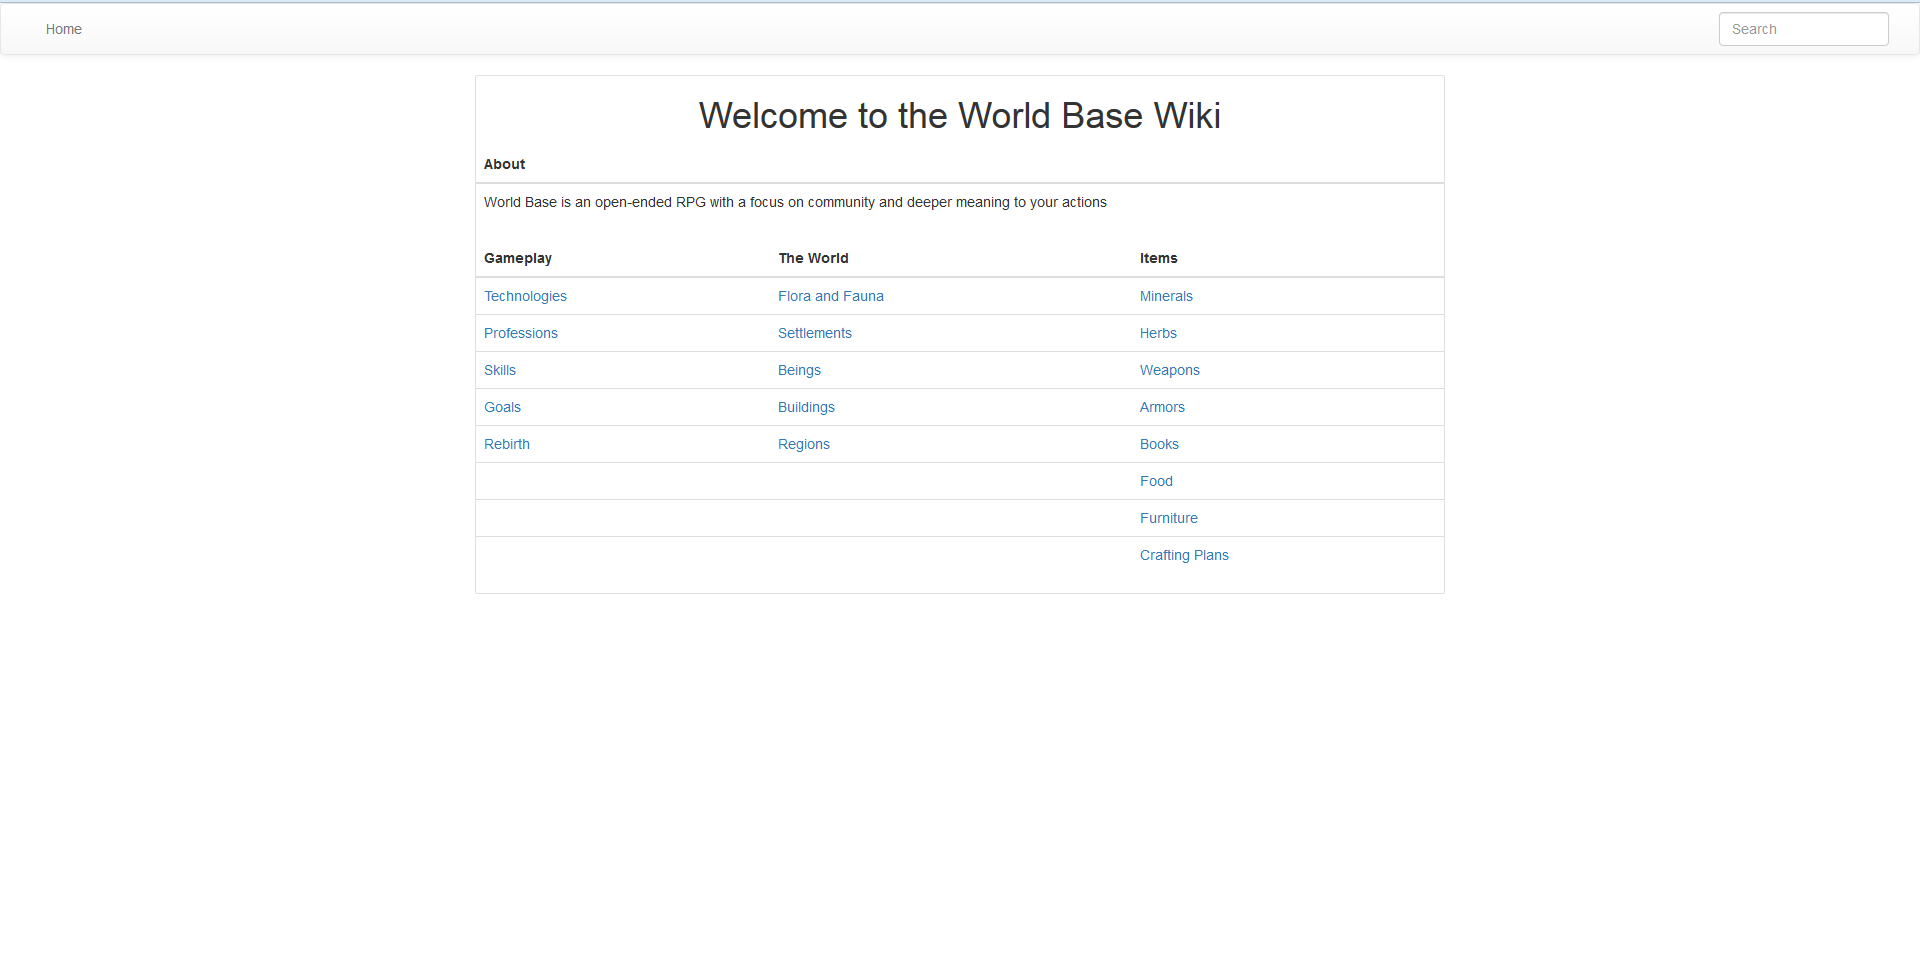
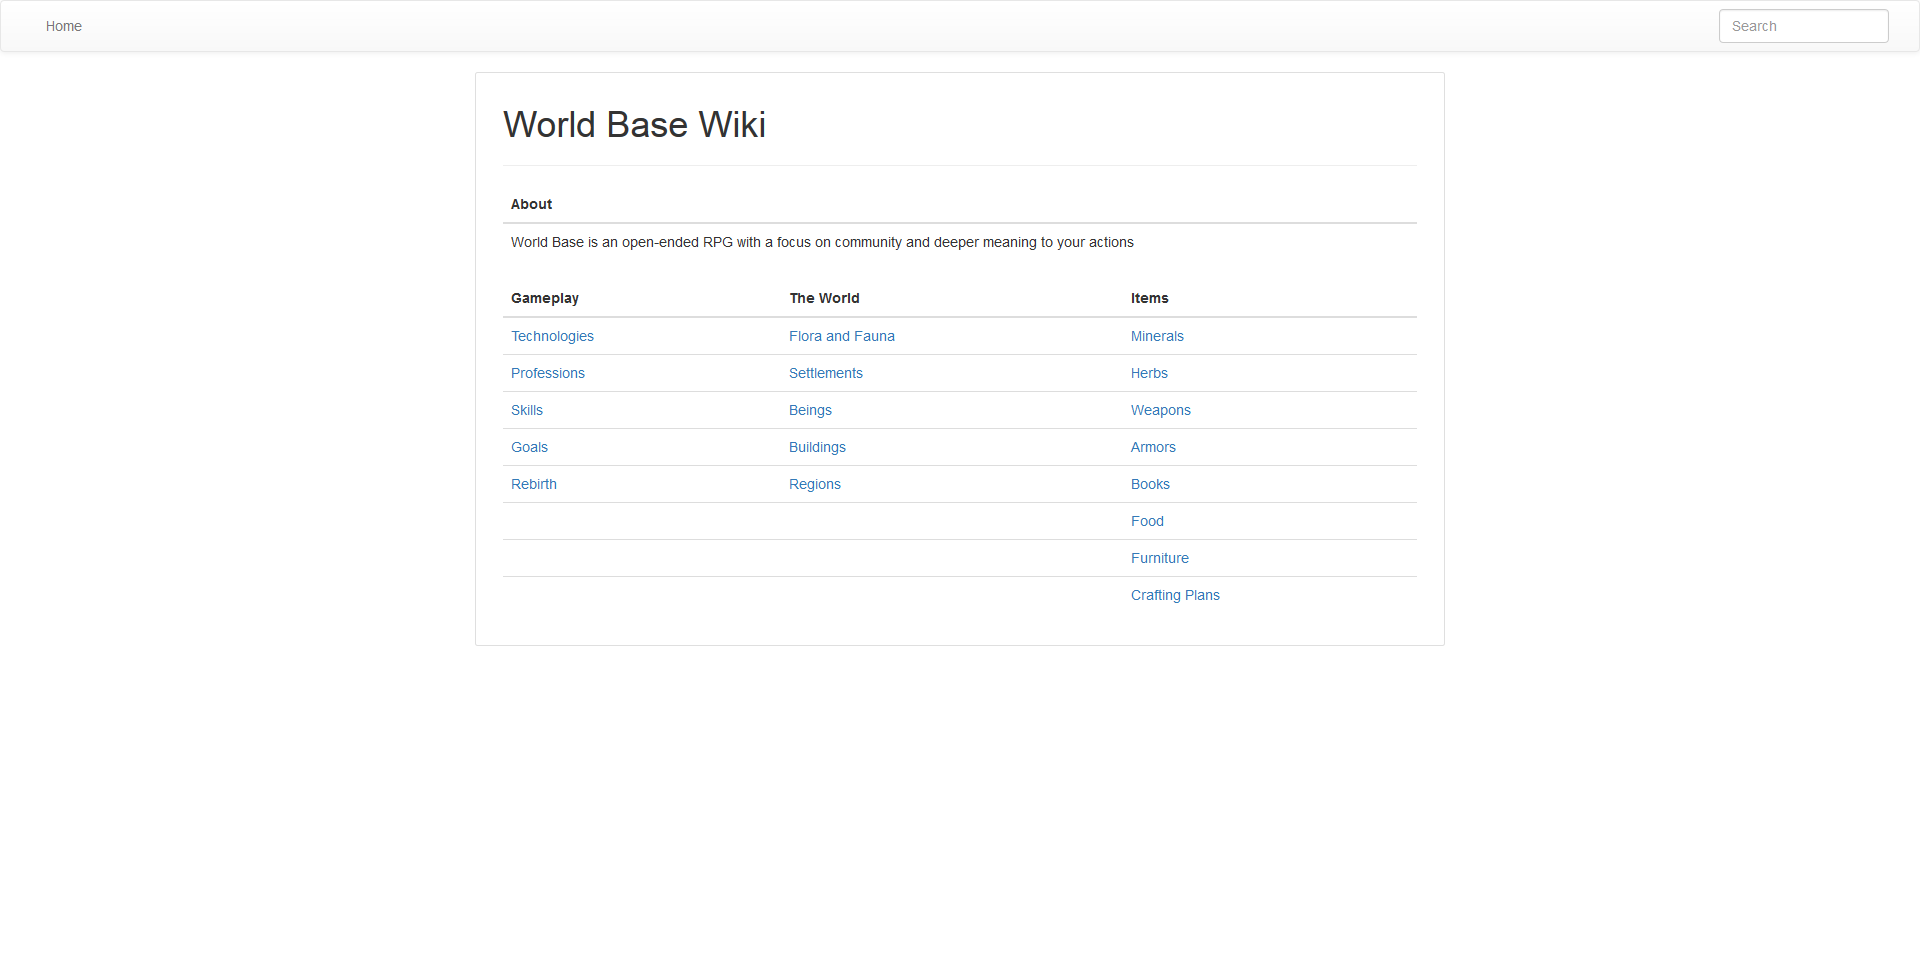
Updated screenshots; Minor update to the static wiki theme; Minor fixes to Link Correction; Changed Theme Content to be processed before the actual page content; Fixed an issue with [title] tag not being properly parsed; Fixed FileSystem Watcher to properly detect created, deleted, and renamed files

diff --git a/Themes/Pretty/theme.html b/Themes/Pretty/theme.html
@@ -139,6 +139,8 @@
 			<div class="flexhandler">
 				<div class="item">
 					<div class="col-sm-12">
+						<h1>{PAGETITLE}</h1>
+
 						{BEGINIFCATEGORIES}
 						<span>
 						<strong>Categories</strong>
@@ -147,6 +149,8 @@
 							{ENDPAGECATEGORIES}
 						</span>
 						{ENDIFCATEGORIES}
+						
+						<hr>
 
 						{CONTENT}
 						

diff --git a/Sample/Content/staticwikitheme/theme.html b/Sample/Content/staticwikitheme/theme.html
@@ -149,6 +149,8 @@
 							{ENDPAGECATEGORIES}
 						</span>
 						{ENDIFCATEGORIES}
+						
+						<hr>
 
 						{CONTENT}
 						

diff --git a/StaticWikiCore/StaticWikiCore.cs b/StaticWikiCore/StaticWikiCore.cs
@@ -469,16 +469,16 @@ namespace StaticWiki
                     var urlGroup = linkMatch.Groups[1];
                     var url = urlGroup.Value.Replace("\\", "/");
                     var invalid = false;
-                    var filePath = url.Contains("://") ? url : Path.Combine(sourceDirectory, currentDirectory, url);
+                    var filePath = url.Contains("://") ? url : Path.Combine(sourceDirectory, currentDirectory, SaneFileName(url));
 
                     if (!url.Contains("://") && !Directory.Exists(filePath) && !File.Exists(filePath))
                     {
                         var recursiveBack = currentDirectory.Length > 0 ?
                             string.Join("", currentDirectory.Replace("\\", "/").Split("/".ToCharArray()).Select(x => "../")) : "";
 
-                        if (searchURLs.Where(x => x.EndsWith(url)).Any())
+                        if (searchURLs.Where(x => x.EndsWith(SaneFileName(url))).Any())
                         {
-                            url = recursiveBack + SaneFileName(searchURLs.Where(x => x.EndsWith(url)).FirstOrDefault()) + pageExtension;
+                            url = recursiveBack + SaneFileName(searchURLs.Where(x => x.EndsWith(SaneFileName(url))).FirstOrDefault()) + pageExtension;
                         }
                         else
                         {
@@ -487,7 +487,7 @@ namespace StaticWiki
 
                         if (invalid)
                         {
-                            content = content.Replace(linkMatch.Groups[0].Value, string.Format("<del><a href=\"#\">{0}</a></del>", linkMatch.Groups[2].Value));
+                            content = content.Replace(linkMatch.Groups[0].Value, string.Format("<a href=\"#\">{0}</a>", linkMatch.Groups[2].Value));
                         }
                         else
                         {
@@ -572,8 +572,8 @@ namespace StaticWiki
             HandleNavTags(ref finalText, navigationInfo);
             HandleCategoryTags(ref finalText, baseName, categoriesInfo, isCategories);
             HandleBasenameTag(ref finalText, baseName);
-            HandleContentTag(ref finalText, contentText);
             HandleRootDirectoryTag(ref finalText, currentDirectory);
+            HandleContentTag(ref finalText, contentText);
 
             finalText = ProcessLinksInContent(finalText, sourceDirectory, currentDirectory, pageExtension, searchURLs);
 
@@ -773,7 +773,7 @@ namespace StaticWiki
 
                     foreach (Match match in titleRegex.Matches(content))
                     {
-                        if (match.Groups.Count == 2)
+                        if (match.Groups.Count == 2 && (match.Groups[0].Index == 0 || content[match.Groups[0].Index - 1] == '\n'))
                         {
                             title = match.Groups[1].Value;
                             content = content.Replace(match.Groups[0].Value, "");

diff --git a/StaticWikiHelper/MainWindow.xaml.cs b/StaticWikiHelper/MainWindow.xaml.cs
@@ -121,11 +121,13 @@ namespace StaticWikiHelper
 
                 fileSystemWatcher = new FileSystemWatcher();
                 fileSystemWatcher.Path = sourceDirectory;
-                fileSystemWatcher.NotifyFilter = NotifyFilters.LastWrite;
+                fileSystemWatcher.NotifyFilter = NotifyFilters.LastWrite | NotifyFilters.FileName | NotifyFilters.CreationTime;
                 fileSystemWatcher.Filter = "*.md";
                 fileSystemWatcher.IncludeSubdirectories = true;
                 fileSystemWatcher.Created += new FileSystemEventHandler(OnChanged);
+                fileSystemWatcher.Deleted += new FileSystemEventHandler(OnChanged);
                 fileSystemWatcher.Changed += new FileSystemEventHandler(OnChanged);
+                fileSystemWatcher.Renamed += new RenamedEventHandler(OnRenamed);
                 fileSystemWatcher.EnableRaisingEvents = true;
 
                 Log("Successfully loaded project");
@@ -157,6 +159,16 @@ namespace StaticWikiHelper
         }
 
         private void OnChanged(object source, FileSystemEventArgs e)
+        {
+            if (!Directory.Exists(sourceDirectory) || !File.Exists(themeFileName) || !autoUpdatesEnabled)
+            {
+                return;
+            }
+
+            Process();
+        }
+
+        private void OnRenamed(object source, RenamedEventArgs e)
         {
             if (!Directory.Exists(sourceDirectory) || !File.Exists(themeFileName) || !autoUpdatesEnabled)
             {

diff --git a/README.md b/README.md
@@ -10,6 +10,13 @@ Static Wiki is a pure HTML [Markdown](http://www.markdowntutorial.com/)-based wi
 
 # What's new
 
+## 1.0.0 pre4
+- Page title support and `{PAGETITLE}` support for themes
+- Minor bug fixes to category pages and the search function
+- Minor bug fixes to link correction so it's as generic as possible when correcting
+- Fixed tags being processed together with Page Content instead of only Theme Content
+- Fixed Helper app to properly detect file creation, deletion, and renaming
+
 ## 1.0.0 pre3
 - Categories support
 
@@ -59,7 +66,9 @@ The `Title` option in `staticwiki.ini` is the base page title - The pages genera
 Current Page Title will have `_`'s replaced with spaces, so a page like `Page_Sample` will become `Page Sample`.
 
 Categories can be added to a page by adding the `[categories]` tag at the start of the page. For example, `[categories]Sample, Markdown[/categories]`.
-Additionally, you can create category pages in your sources (with their name in form of `Category_name`) to add some content to your category page.
+Additionally, you can create category pages in your sources (with their name in the form of `Category_name`) to add some content to your category page.
+
+Pages can have a custom title by adding using the `[title]` tag. For example, `[title]My title[/title}`.
 
 Special sections in themes are:
 
@@ -81,6 +90,7 @@ Special sections in themes are:
 - `{BEGINIFCATEGORIES}` - Begins a code snippet if the page has categories
 - `{ENDIFCATEGORIES}` - Ends a code snippet if the page has categories
 - `{BASENAME}` - The name of the current file
+- `{PAGETITLE}` - The title of the current file
 
 # License
 

diff --git a/Sample/Content/pagesources/index.md b/Sample/Content/pagesources/index.md
@@ -11,8 +11,10 @@ You're looking at it right now!
 
 ## 1.0.0 pre4
 - Page title support and `{PAGETITLE}` support for themes
-- Minor bug fixes to category pages
-- 
+- Minor bug fixes to category pages and the search function
+- Minor bug fixes to link correction so it's as generic as possible when correcting
+- Fixed tags being processed together with Page Content instead of only Theme Content
+- Fixed Helper app to properly detect file creation, deletion, and renaming
 
 ## 1.0.0 pre3
 - Categories support
@@ -69,7 +71,9 @@ Current Page Title will have `_`'s replaced with spaces, so a page like `Page_Sa
 Subdirectories can be used and will change the name of pages to `Title - Page Title (Subdirectory name)`.
 
 Categories can be added to a page by adding the `[categories]` tag at the start of the page. For example, `[categories]Sample, Markdown[/categories]`.
-Additionally, you can create category pages in your sources (with their name in form of `Category_name`) to add some content to your category page.
+Additionally, you can create category pages in your sources (with their name in the form of `Category_name`) to add some content to your category page.
+
+Pages can have a custom title by adding using the `[title]` tag. For example, `[title]My title[/title}`.
 
 Special sections in themes are:
 
@@ -91,6 +95,7 @@ Special sections in themes are:
 - `{BEGINIFCATEGORIES}` - Begins a code snippet if the page has categories
 - `{ENDIFCATEGORIES}` - Ends a code snippet if the page has categories
 - `{BASENAME}` - The name of the current file
+- `{PAGETITLE}` - The title of the current file
 
 # License
 
